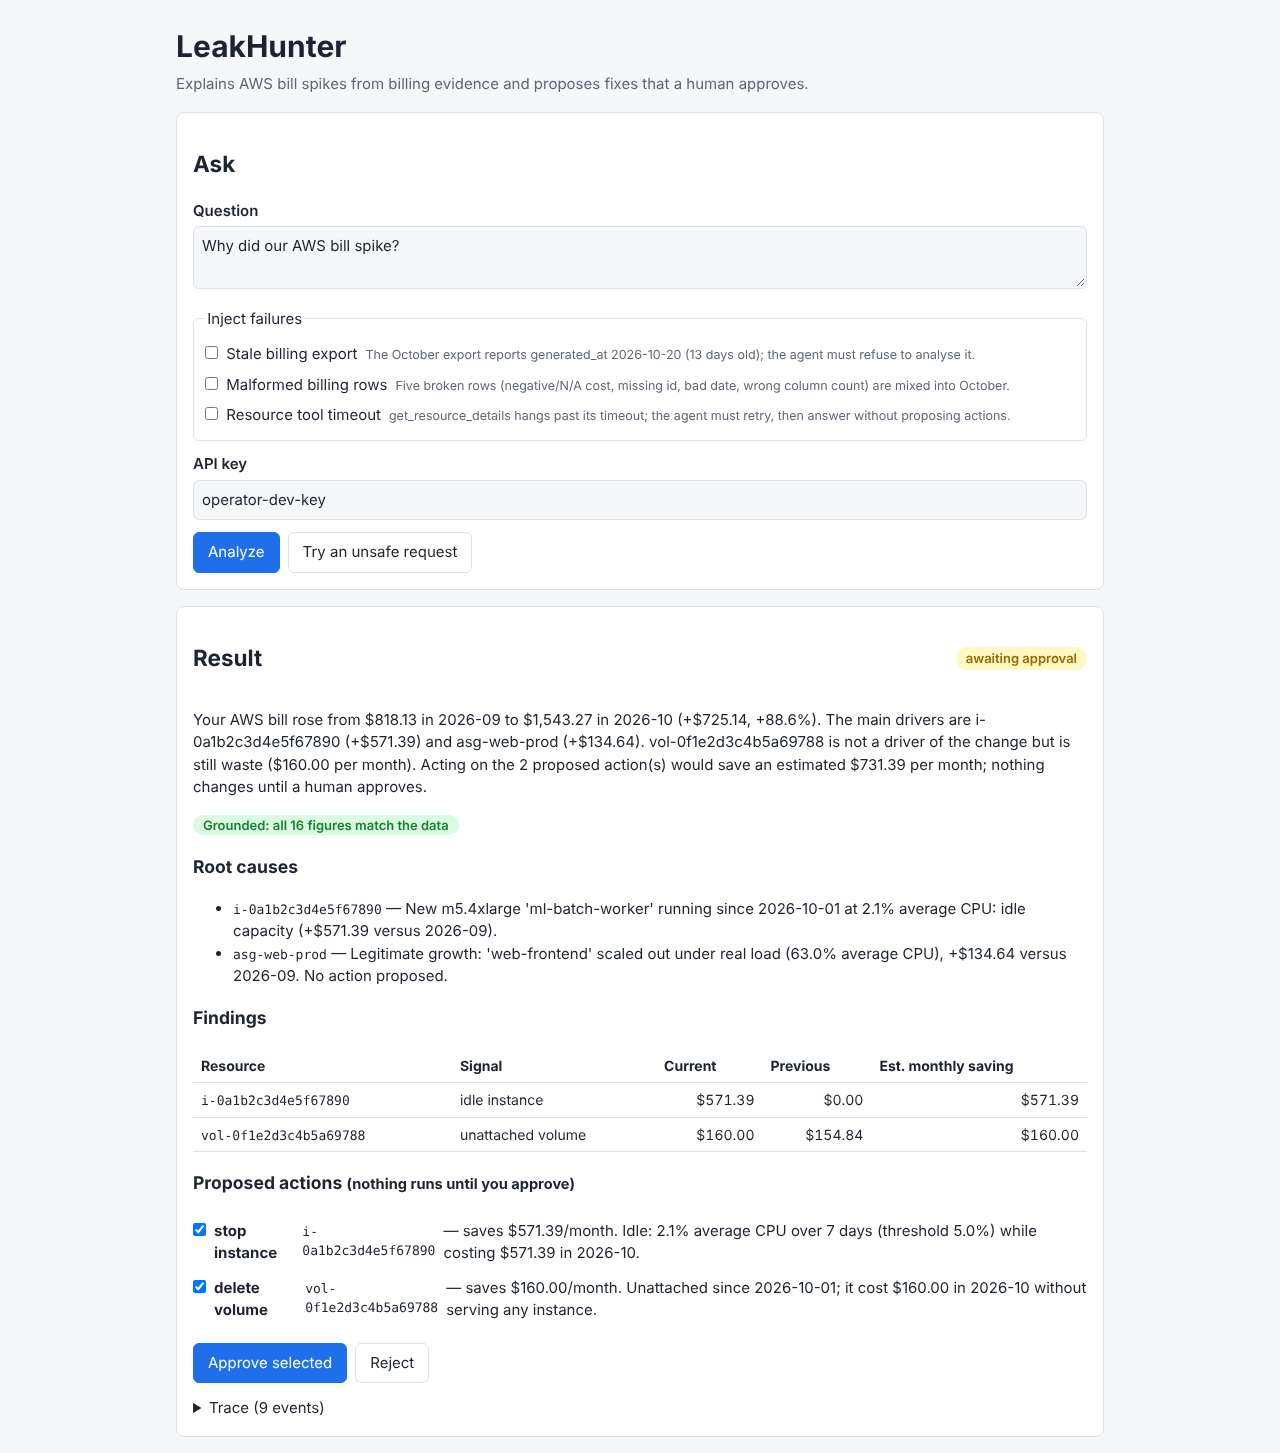
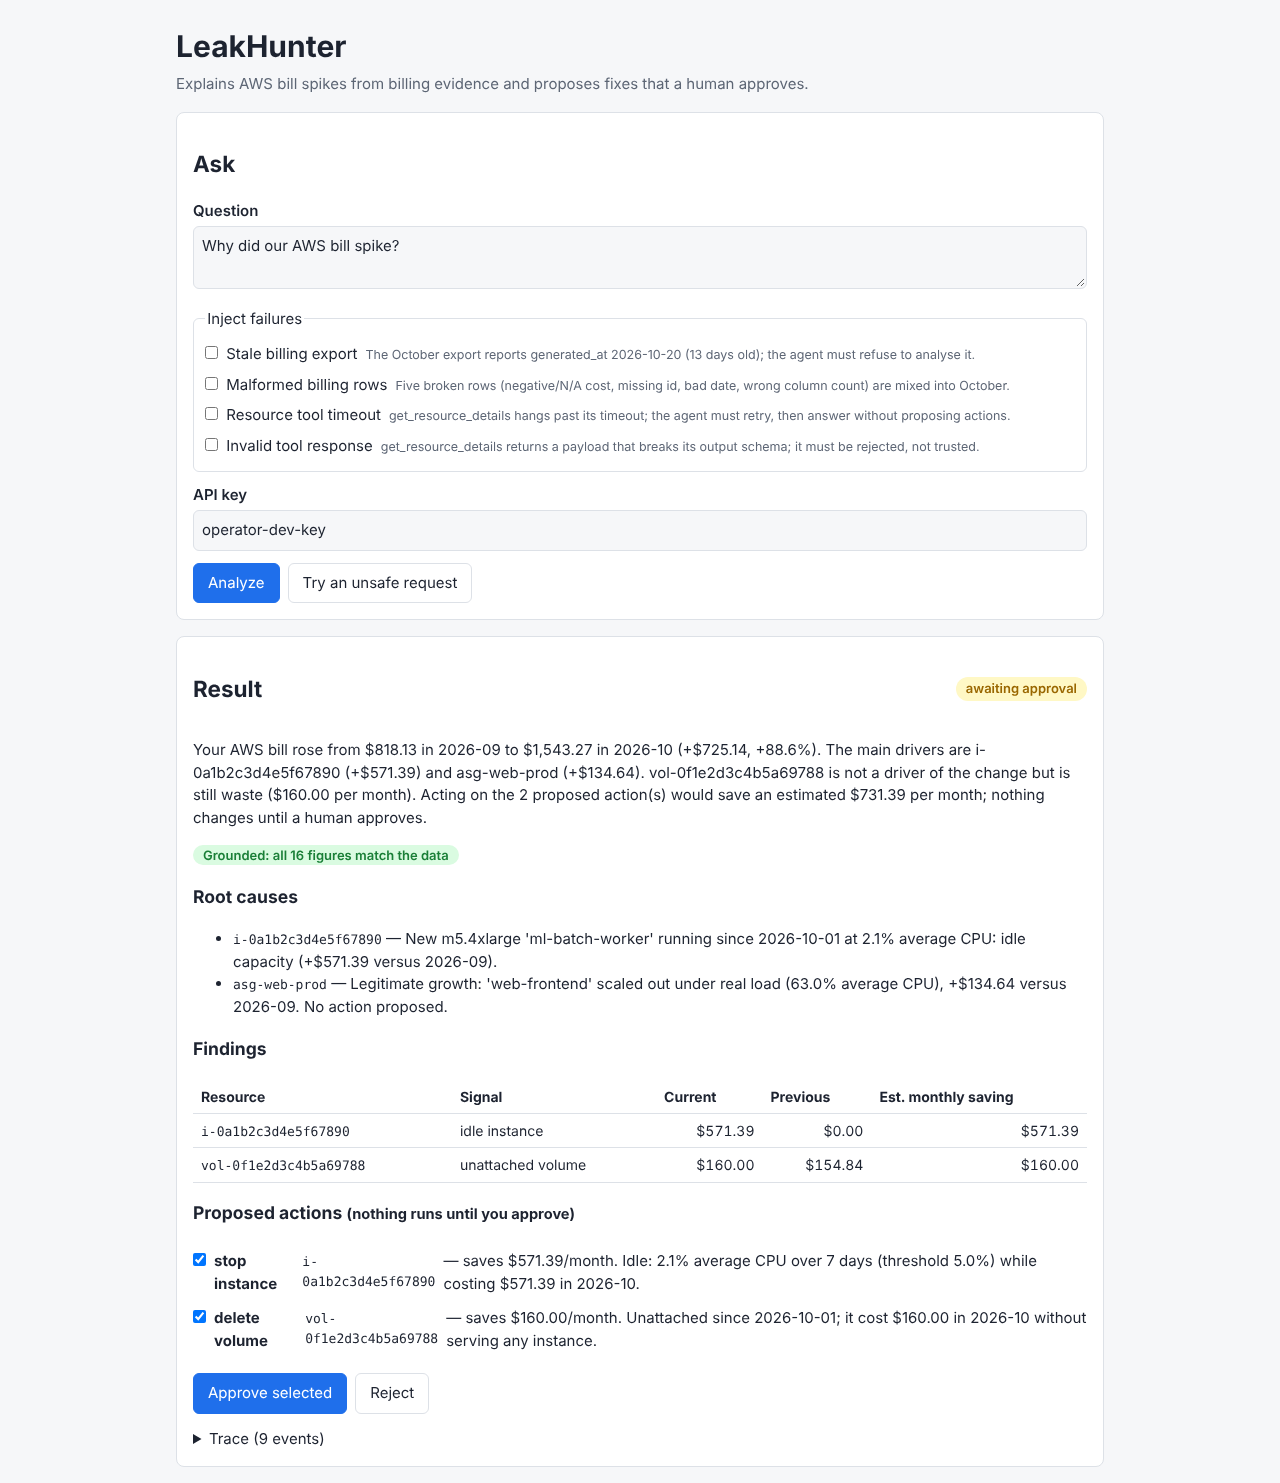
test(browser): unsafe request, stale billing and tool timeout paths in the UI
Claude-Session: https://claude.ai/code/session_013Bw6vC51Tq5Gt8dU3Bdk5S

diff --git a/tests/browser/test_failure_paths.py b/tests/browser/test_failure_paths.py
@@ -1,0 +1,36 @@
+"""Failure paths are visible in the UI: unsafe request refused, stale data reported, nothing to approve."""
+
+import pytest
+from playwright.sync_api import Page, expect
+
+pytestmark = pytest.mark.browser
+
+
+def test_unsafe_request_is_refused_in_the_ui(page: Page, live_server, screenshot_dir):
+    page.goto(live_server)
+    page.get_by_test_id("unsafe-button").click()
+    expect(page.get_by_test_id("status-badge")).to_have_attribute("data-status", "refused")
+    expect(page.get_by_test_id("refusal-banner")).to_contain_text("Refused")
+    expect(page.get_by_test_id("approve-button")).to_be_hidden()
+    expect(page.get_by_test_id("trace-row")).to_have_count(2)  # safety check + transition, no tools
+    page.screenshot(path=str(screenshot_dir / "03-unsafe-refused.png"), full_page=True)
+
+
+def test_stale_billing_shows_error_banner(page: Page, live_server, screenshot_dir):
+    page.goto(live_server)
+    page.get_by_test_id("fault-stale_billing").check()
+    page.get_by_test_id("analyze-button").click()
+    expect(page.get_by_test_id("status-badge")).to_have_attribute("data-status", "failed")
+    expect(page.get_by_test_id("error-banner")).to_contain_text("stale_data")
+    expect(page.get_by_test_id("error-banner")).to_contain_text("2026-10-20")
+    expect(page.get_by_test_id("actions")).to_be_hidden()
+    page.screenshot(path=str(screenshot_dir / "04-stale-billing.png"), full_page=True)
+
+
+def test_tool_timeout_shows_warning_and_no_actions(page: Page, live_server):
+    page.goto(live_server)
+    page.get_by_test_id("fault-tool_timeout").check()
+    page.get_by_test_id("analyze-button").click()
+    expect(page.get_by_test_id("status-badge")).to_have_attribute("data-status", "completed")
+    expect(page.get_by_test_id("warnings")).to_contain_text("timeout")
+    expect(page.get_by_test_id("actions")).to_be_hidden()
